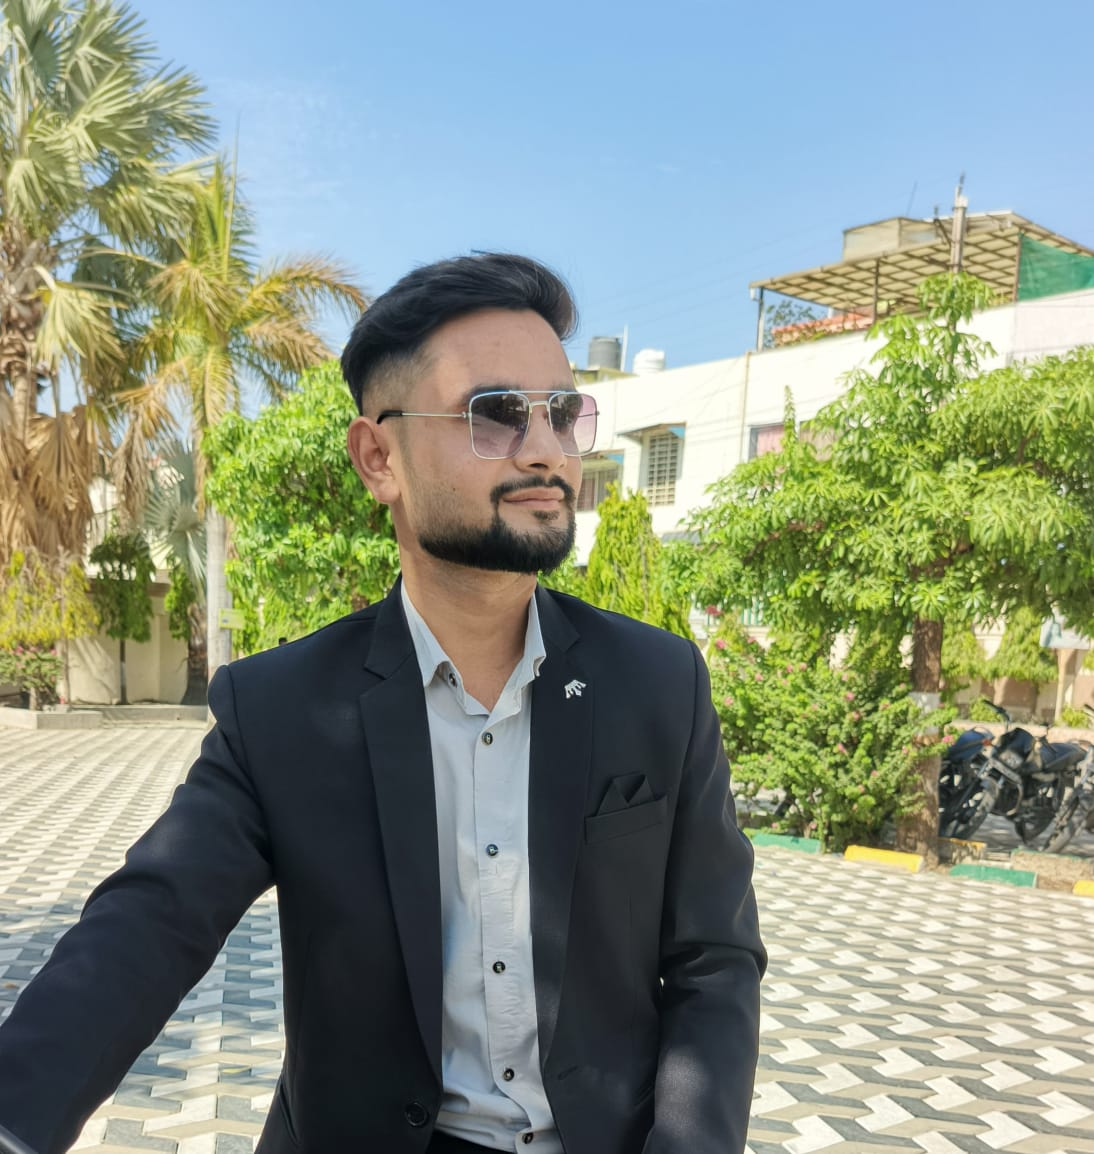
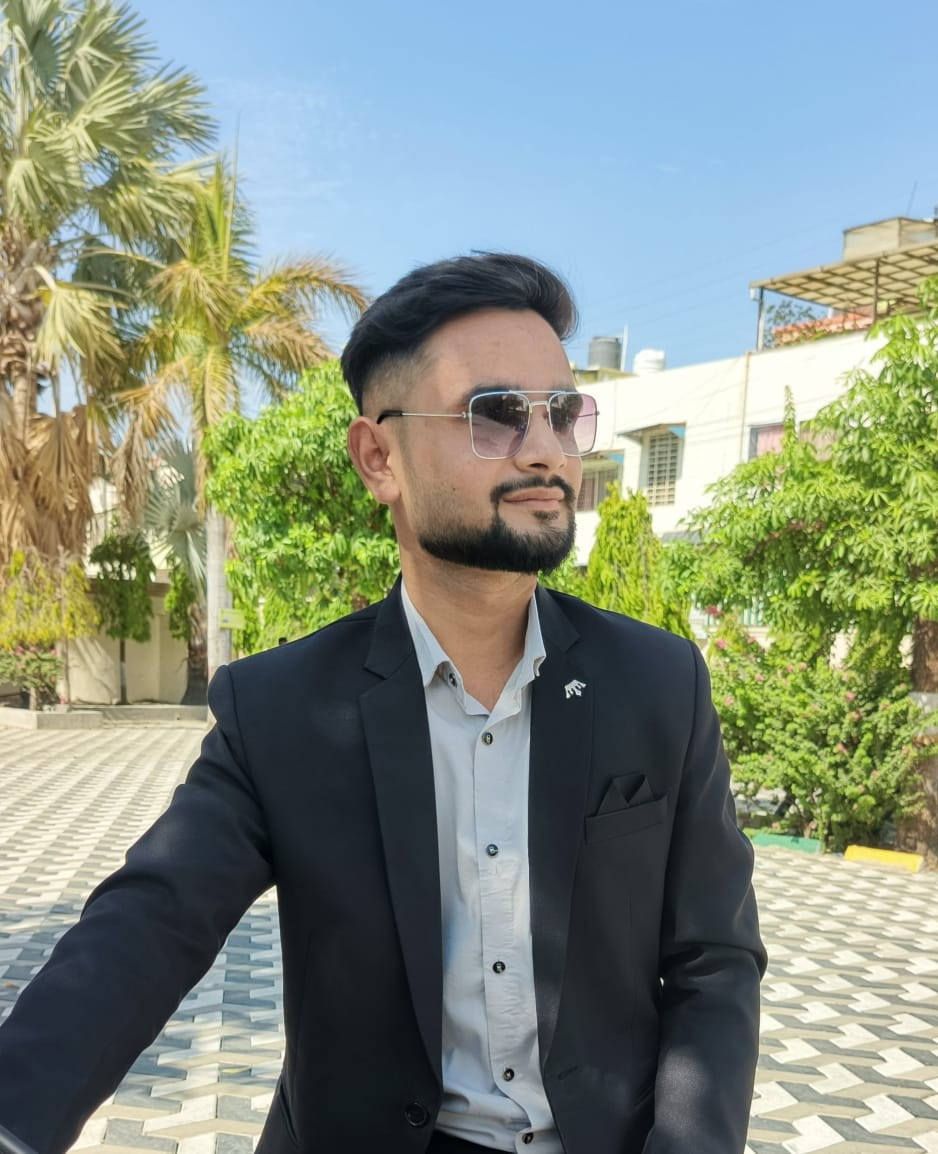
Updated portfolio

diff --git a/index.html b/index.html
@@ -16,12 +16,16 @@
 
 <div class="hero-text">
 <h1>Sushil Rajesh Sharnagat</h1>
-<h3>Aspiring Software Engineer & Data Analyst</h3>
+<h3>Aspiring Data Scientist & ML Engineering</h3>
 
 <p>
-Motivated and detail-oriented aspiring Software Engineer with hands-on
-experience in Python, C++, SQL, Web Development and Data Analytics.
-Passionate about building innovative solutions and solving real-world problems.
+Motivated and detail-oriented Data Science and 
+Machine Learning enthusiast with strong knowledge of Python, 
+MySQL, Data Analysis, Data Preprocessing, Exploratory Data Analysis (EDA), 
+and Machine Learning algorithms. Skilled in developing data-driven solutions, 
+building predictive models, and creating interactive dashboards using Power BI 
+and Streamlit. Proficient in transforming raw data into meaningful insights to 
+support decision-making and solve real-world business problems.
 </p>
 
 <div class="hero-btns">